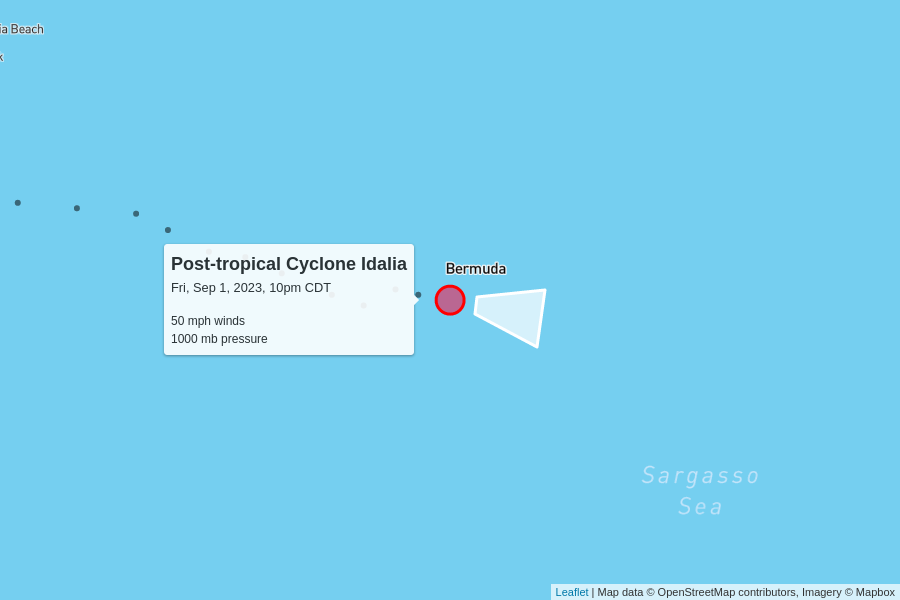
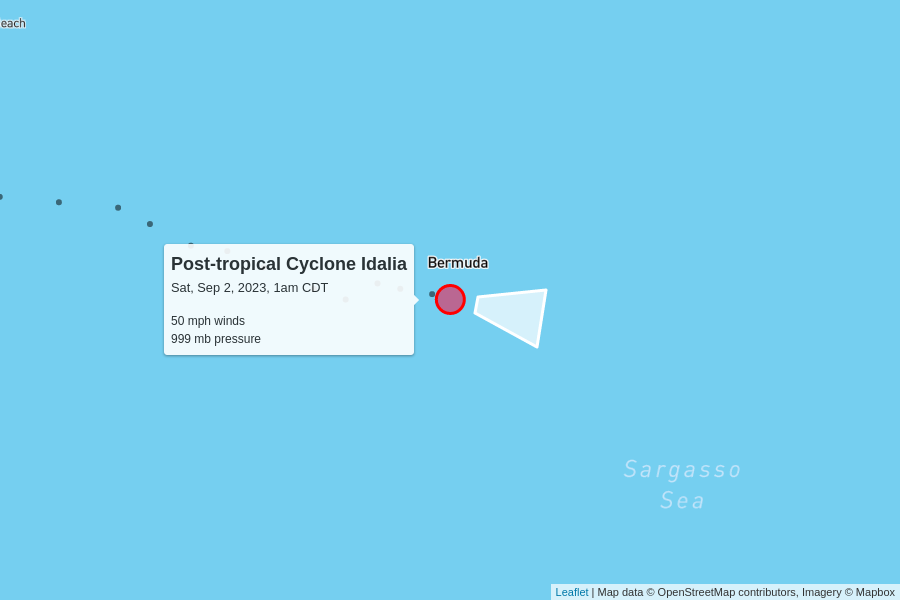
automatic update

diff --git a/docs/index.html b/docs/index.html
@@ -104,7 +104,7 @@
         <td colspan="6" class="storm category-0" >
           <h2>
             Post-tropical Cyclone Idalia
-            <p class="updated">last updated <span data-time>2023-09-02T03:00:00.000Z</span></p>
+            <p class="updated">last updated <span data-time>2023-09-02T06:00:00.000Z</span></p>
           </h2>
         </td>
       </tr>
@@ -120,9 +120,9 @@
       <tr>
         <td class="spacer"></td>
         <td>50 mph<br>0 mph since last update</td>
-        <td>1000 mb<br>0 mb since last update</td>
+        <td>999 mb<br>-1 mb since last update</td>
         <td>
-          16 mph to the east
+          14 mph to the east
           <br/>
           <span style="display: inline-block; font-size: 1.5em; transform: rotate(100deg);">↑</span>
         </td>
@@ -211,28 +211,6 @@
       
 
       <tr>
-        <td colspan="6" class="storm category-1" style="cursor:pointer;" onClick="toggle('AL082023')">
-          <h2>🏁 Franklin
-          </h2>
-        </td>
-      </tr>
-      
-      <tr id="storm_AL082023" style="display:none;">
-        <td class="spacer">
-        <td colspan="5">
-          <figure>
-            <img src="AL082023.png">
-            <figcaption>
-              Map data &copy; <a href="https://www.openstreetmap.org/copyright">OpenStreetMap</a> contributors,
-              Imagery &copy; <a href="https://www.mapbox.com/">Mapbox</a> |
-              <a href="https://www.mapbox.com/map-feedback/" target="_blank">Improve this map</a>
-            </figcaption>
-          </figure>
-        </td>
-      </tr>
-      
-
-      <tr>
         <td colspan="6" class="storm category-0" >
           <h2>
             Tropical Storm Gert
@@ -266,6 +244,28 @@
         <td colspan="5">
           <figure>
             <img src="AL062023.png">
+            <figcaption>
+              Map data &copy; <a href="https://www.openstreetmap.org/copyright">OpenStreetMap</a> contributors,
+              Imagery &copy; <a href="https://www.mapbox.com/">Mapbox</a> |
+              <a href="https://www.mapbox.com/map-feedback/" target="_blank">Improve this map</a>
+            </figcaption>
+          </figure>
+        </td>
+      </tr>
+      
+
+      <tr>
+        <td colspan="6" class="storm category-1" style="cursor:pointer;" onClick="toggle('AL082023')">
+          <h2>🏁 Franklin
+          </h2>
+        </td>
+      </tr>
+      
+      <tr id="storm_AL082023" style="display:none;">
+        <td class="spacer">
+        <td colspan="5">
+          <figure>
+            <img src="AL082023.png">
             <figcaption>
               Map data &copy; <a href="https://www.openstreetmap.org/copyright">OpenStreetMap</a> contributors,
               Imagery &copy; <a href="https://www.mapbox.com/">Mapbox</a> |
